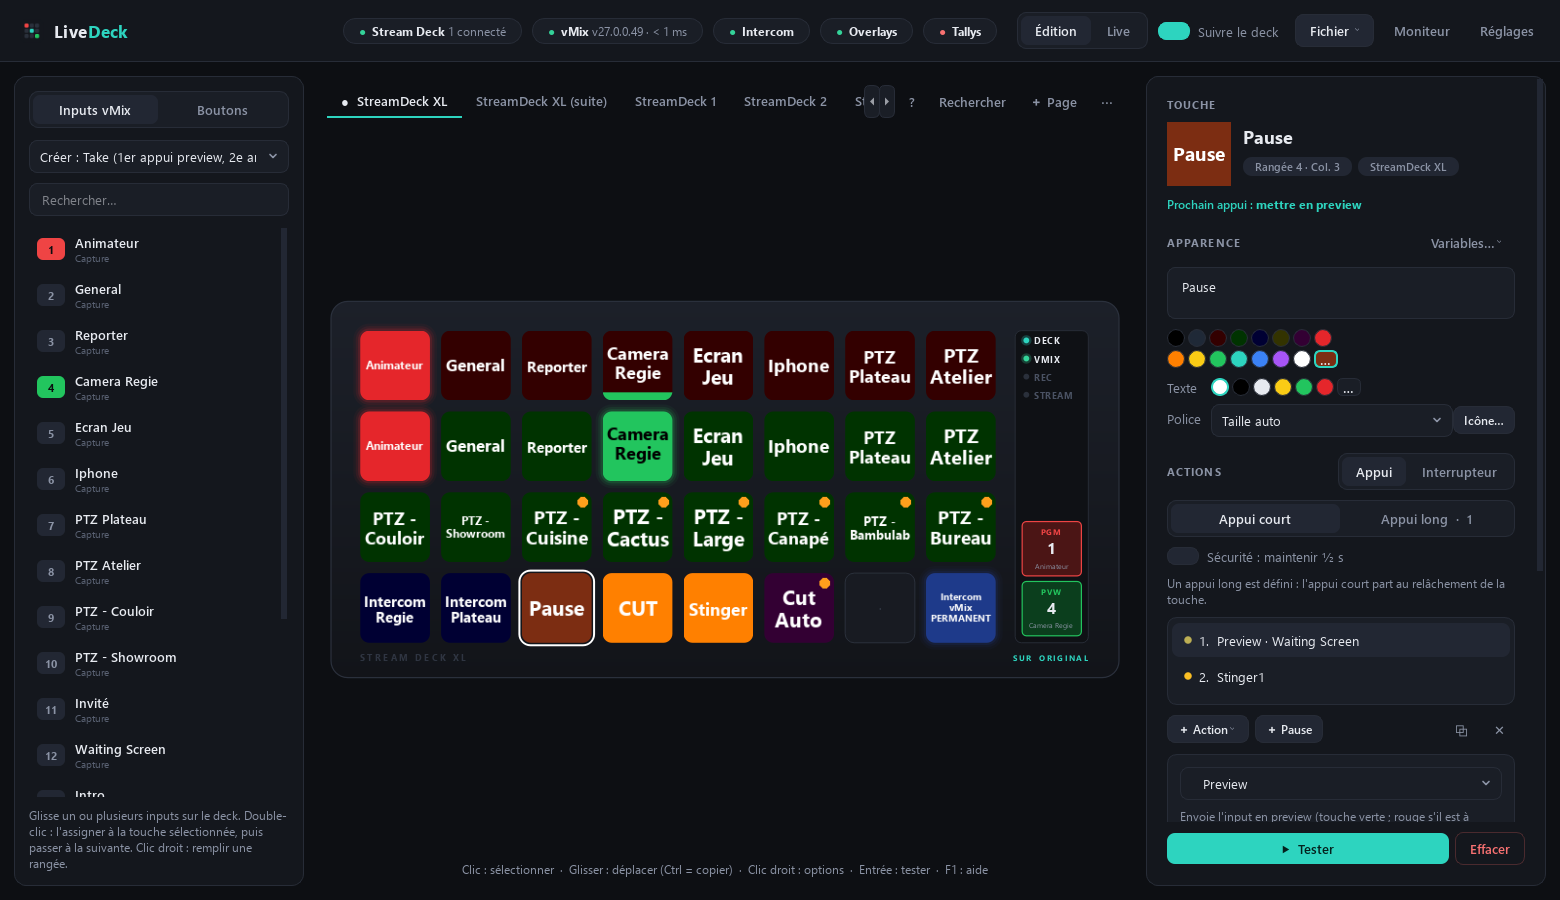
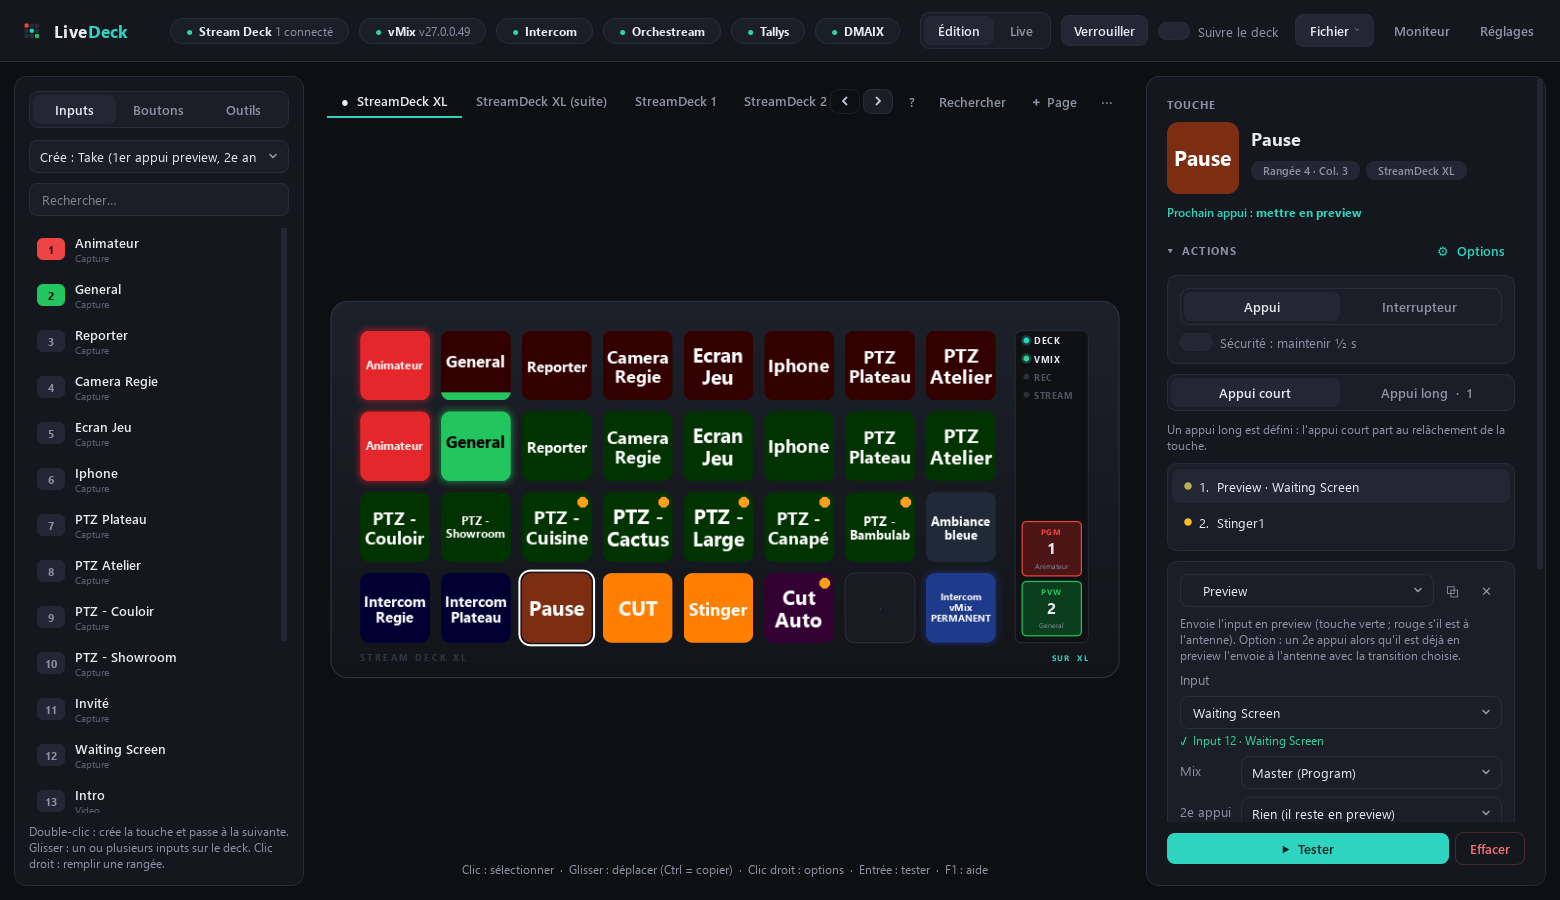
Captures d'écran de la doc refaites ; outil tools/screenshots.py
Les images dataient de la 1.8.0 : onglet Outils, réglages par outil, pastilles
par outil et actions PTZ n'y étaient pas. tools/screenshots.py les redessine
hors écran avec la configuration de démonstration et de faux serveurs ;
nouvelle capture outils.png (guide et README).

diff --git a/tools/screenshots.py b/tools/screenshots.py
@@ -1,0 +1,215 @@
+"""Refait les captures d'écran de la documentation (docs/images), sans rien de réel.
+
+    python tools/screenshots.py            # écrit dans docs/images
+    python tools/screenshots.py dossier    # écrit ailleurs (pour comparer avant de remplacer)
+
+Tout est simulé sur 127.0.0.1, comme dans les tests : faux vMix, faux Stream Deck XL, faux py-intercom,
+orchestream, py-multiview, MixPanel, DMAIX, Tally32 et caméra ONVIF. La configuration est celle de démonstration
+(tests/fixtures/demo.companionconfig), écrite dans un dossier temporaire : ni ta configuration, ni le registre,
+ni le clavier ne sont touchés. L'interface est dessinée hors écran, à taille fixe.
+"""
+from __future__ import annotations
+
+import os
+import sys
+import tempfile
+import time
+from pathlib import Path
+
+os.environ["QT_QPA_PLATFORM"] = "offscreen"
+_fonts = Path(os.environ.get("WINDIR", r"C:\Windows")) / "Fonts"
+if _fonts.is_dir():
+    os.environ.setdefault("QT_QPA_FONTDIR", str(_fonts))
+ROOT = Path(__file__).resolve().parent.parent
+sys.path[:0] = [str(ROOT), str(ROOT / "tests")]
+
+from PySide6.QtWidgets import QApplication  # noqa: E402
+
+app = QApplication.instance() or QApplication([])
+
+import fakes  # noqa: E402
+from livedeck import autostart  # noqa: E402
+
+autostart.is_enabled = lambda: False  # jamais le registre Windows
+autostart.set_enabled = lambda on: None
+KEYS = fakes.FakeKeys().install()  # jamais une vraie touche du clavier
+
+from livedeck import winsys  # noqa: E402
+from livedeck.actions import new_action  # noqa: E402
+from livedeck.companion_import import import_companion  # noqa: E402
+from livedeck.deck import DeckHandle, DeckManager  # noqa: E402
+from livedeck.engine import Engine  # noqa: E402
+from livedeck.model import new_button  # noqa: E402
+from livedeck.ui import theme  # noqa: E402
+from livedeck.ui.diagnostic import DiagnosticDialog  # noqa: E402
+from livedeck.ui.main_window import MainWindow  # noqa: E402
+from livedeck.ui.search import SearchDialog  # noqa: E402
+from livedeck.ui.settings import SettingsDialog  # noqa: E402
+
+FIXTURE = ROOT / "tests" / "fixtures" / "demo.companionconfig"
+PORT = 18700  # faux serveurs : PORT (vMix), puis un port chacun
+SIZE = (1560, 900)
+
+
+class MockDeck:
+    """Ce que LiveDeck demande à un Stream Deck (bibliothèque python-elgato-streamdeck)."""
+
+    def __init__(self):
+        self.images = {}
+
+    def __enter__(self):
+        return self
+
+    def __exit__(self, *a):
+        pass
+
+    def key_image_format(self):
+        return {"size": (96, 96), "format": "JPEG", "flip": (True, True), "rotation": 0}
+
+    def set_key_image(self, i, data):
+        self.images[i] = data
+
+    def set_brightness(self, b):
+        pass
+
+    def id(self):
+        return "mock-xl"
+
+    def connected(self):
+        return True
+
+
+def pump(seconds: float) -> None:
+    end = time.monotonic() + seconds
+    while time.monotonic() < end:
+        app.processEvents()
+        time.sleep(0.01)
+
+
+def wait(cond, timeout: float = 6.0) -> bool:
+    end = time.monotonic() + timeout
+    while time.monotonic() < end:
+        app.processEvents()
+        if cond():
+            return True
+        time.sleep(0.01)
+    return False
+
+
+def build(tmp: Path):
+    """Moteur de démonstration branché sur les faux serveurs, avec un faux Stream Deck XL."""
+    fakes.serve_vmix(PORT)
+    fakes.FakeIntercom(PORT + 1)
+    fakes.FakeOrchDeck(PORT + 2)
+    fakes.FakeTally(PORT + 3, True)
+    fakes.FakeTally(PORT + 4, True)
+    fakes.FakeMultiview(PORT + 5)
+    fakes.FakeMixPanel(PORT + 6)
+    fakes.FakeDmaix(PORT + 7)
+    cam = fakes.FakeOnvif(PORT + 8)
+    cfg, _ = import_companion(FIXTURE, integrations=True)
+    cfg["vmix"] = {"host": "127.0.0.1", "port": PORT}
+    cfg["integrations"] = {
+        "intercom": {"host": "127.0.0.1", "port": PORT + 1},
+        "orchestream": {"url": f"127.0.0.1:{PORT + 2}", "token": fakes.FakeOrchDeck.TOKEN},
+        "tallies": [{"name": "Caméra 1", "host": f"127.0.0.1:{PORT + 3}"},
+                    {"name": "Caméra 2", "host": f"127.0.0.1:{PORT + 4}"}],
+        "multiview": {"url": f"127.0.0.1:{PORT + 5}"}, "mixpanel": {"url": f"127.0.0.1:{PORT + 6}"},
+        "dmaix": {"url": f"127.0.0.1:{PORT + 7}"},
+        "onvif": {"user": cam.USER, "password": cam.PASSWORD,
+                  "cameras": [{"name": "Plateau", "host": f"127.0.0.1:{PORT + 8}"}]}}
+    xl = next(p for p in cfg["pages"] if (p["cols"], p["rows"]) == (8, 4))
+    # Une touche décrite par un outil (DMAIX) à la place de la dernière de la 3e rangée…
+    free = [f"{r},{c}" for r in range(4) for c in range(8) if f"{r},{c}" not in xl["buttons"]]
+    xl["buttons"]["2,7"] = new_button(label="", bg="#1f2937", actions=[
+        new_action("deck.key", app="dmaix", key="scene.play:sc-2", title="Ambiance bleue")])
+    # … et une touche à deux gestes : appui court (preview puis stinger), appui long (fondu au noir)
+    xl["buttons"][free[0]] = new_button(label="Pause", bg="#7c2d12", actions=[
+        new_action("vmix.preview", input="Waiting Screen"), new_action("vmix.transition", effect="Stinger1")],
+        long_actions=[new_action("vmix.production", what="fadetoblack")])
+    e = Engine(tmp / "config.json", enable_decks=False)
+    e.winaudio = winsys.CachedAudio(fakes.FakeAudio())  # jamais le vrai son de la machine
+    e.cfg = cfg
+    dm = DeckManager(e)
+    e.decks = dm
+    deck = MockDeck()
+    h = DeckHandle(deck, "DEMOXL0000001", "Stream Deck XL", 4, 8, 96)
+    dm.handles[deck.id()] = h
+    h.page_id = xl["id"]
+    return e, xl, free[1:]
+
+
+def main() -> None:
+    out = Path(sys.argv[1]) if len(sys.argv) > 1 else ROOT / "docs" / "images"
+    out.mkdir(parents=True, exist_ok=True)
+    app.setStyleSheet(theme.QSS)
+    with tempfile.TemporaryDirectory() as d:
+        e, xl, free = build(Path(d))
+        w = MainWindow(e)
+        e.start()
+        w.resize(*SIZE)
+        w.show()
+        ok = wait(lambda: e.vmix.state.connected and e.vmix.state.inputs and e.intercom.reachable
+                  and e.deck("dmaix").has_keys and e.orchestream.has_keys)
+        if not ok:
+            sys.exit("Les faux serveurs n'ont pas répondu : captures annulées.")
+        pump(1.5)
+
+        def shot(name: str, widget=None) -> None:
+            pump(0.6)
+            (widget or w).grab().save(str(out / name))
+            print("écrit", out / name)
+
+        def first(pred):
+            return next(k for k, b in sorted(xl["buttons"].items()) if pred(b))
+
+        # 1. la surface : une touche Program sélectionnée, les inputs vMix à gauche
+        w.select(first(lambda b: (b.get("actions") or [{}])[0].get("type") == "vmix.program"
+                       and "Regie" in b.get("label", "")))
+        shot("surface.png")
+        # 2. les étapes d'une touche : appui court + appui long
+        w.select(first(lambda b: b.get("long_actions")))
+        shot("etapes.png")
+        # 3. une touche vide : tout ce qu'elle peut devenir, une pastille par outil
+        w.select(free[0])
+        shot("touche-vide.png")
+        # 4. l'onglet Outils : chaque outil, son état, ses touches par rubrique
+        w.library.show_tools()
+        w.select(first(lambda b: (b.get("actions") or [{}])[0].get("type") == "deck.key"))
+        shot("outils.png")
+        w.library.tabs.set("inputs")
+        w.library.stack.setCurrentWidget(w.library.inputs)
+
+        # 5. Réglages → Intégrations : un outil par page
+        dlg = SettingsDialog(e, w, tab="integ", tool="orchestream")
+        dlg.show()
+        wait(lambda: e.deck("mixpanel").has_keys and e.deck("multiview").has_keys
+             and all(c.reachable for c in e.onvif.cameras) and e.tallies.summary("all")[0], 8)
+        pump(1.2)
+        shot("integrations.png", dlg)
+        dlg.reject()
+
+        # 6. la recherche (Ctrl+F)
+        dlg = SearchDialog(e, w)
+        dlg.show()
+        dlg.edit.setText("plateau")
+        shot("recherche.png", dlg)
+        dlg.reject()
+
+        # 7. le diagnostic : quelques touches reconnues
+        dlg = DiagnosticDialog(e, w)
+        dlg.show()
+        dlg.tabs.set("in")
+        dlg.stack.setCurrentIndex(1)
+        for idx in (0, 1, 2, 8, 10, 11, 19, 20, 27):
+            dlg.key_event.emit("DEMOXL0000001", idx, True)
+            dlg.key_event.emit("DEMOXL0000001", idx, False)
+        shot("diagnostic.png", dlg)
+        dlg.reject()
+        e.stop()
+    sys.stdout.flush()
+    os._exit(0)  # fin nette : décharger Qt avec des fils natifs encore actifs plante parfois sous Windows
+
+
+if __name__ == "__main__":
+    main()

diff --git a/README.md b/README.md
@@ -57,11 +57,15 @@ Mieux encore : **glisse plusieurs inputs sur le deck** et toute une rangée est 
 <table>
 <tr>
 <td width="50%"><img src="docs/images/etapes.png" alt="Étapes"><p align="center"><sub>Étapes d'une touche, prochain appui</sub></p></td>
-<td width="50%"><img src="docs/images/integrations.png" alt="Intégrations"><p align="center"><sub>Intégrations py-intercom, orchestream, Tally32</sub></p></td>
+<td width="50%"><img src="docs/images/integrations.png" alt="Intégrations"><p align="center"><sub>Réglages : une page par outil, avec son état</sub></p></td>
 </tr>
 <tr>
 <td width="50%"><img src="docs/images/diagnostic.png" alt="Diagnostic"><p align="center"><sub>Diagnostic des Stream Decks</sub></p></td>
 <td width="50%"><img src="docs/images/touche-vide.png" alt="Touche vide"><p align="center"><sub>Toutes les actions, avec recherche</sub></p></td>
+</tr>
+<tr>
+<td width="50%"><img src="docs/images/outils.png" alt="Outils"><p align="center"><sub>Onglet Outils : chaque outil, son état, ses touches</sub></p></td>
+<td width="50%"><img src="docs/images/recherche.png" alt="Recherche"><p align="center"><sub>Recherche d'une touche (Ctrl+F)</sub></p></td>
 </tr>
 </table>
 

diff --git a/docs/release.md b/docs/release.md
@@ -78,3 +78,13 @@ que tu la lances en exe ou depuis les sources. Rien n'est écrit dans le dépôt
 (`*.companionconfig`) sont exclus par `.gitignore` : ta config de régie reste sur ton PC.
 Les tests utilisent une config de démonstration anonymisée (`tests/fixtures/demo.companionconfig`) et des serveurs
 simulés (vMix, py-intercom, orchestream, Tally32) sur `127.0.0.1`.
+
+## Refaire les captures d'écran de la doc
+
+```bash
+python tools/screenshots.py
+```
+
+Le script redessine les images de `docs/images` hors écran, avec la configuration de démonstration et de faux
+serveurs (vMix, Stream Deck XL, py-intercom, orchestream, py-multiview, MixPanel, DMAIX, Tally32, caméra ONVIF) :
+rien de réel n'est touché. À relancer quand l'interface change, avant de publier.

diff --git a/docs/guide.md b/docs/guide.md
@@ -280,6 +280,8 @@ elles sont toutes surveillées.
 
 ![Intégrations](images/integrations.png)
 
+![Outils](images/outils.png)
+
 | Outil | Ce que fait LiveDeck | Retour sur la touche |
 |---|---|---|
 | **py-intercom** (API Stream Deck du client, `http://127.0.0.1:5080`, jeton facultatif) | Talkback maintenu (`on` à l'appui, `off` au relâché), basculer, ouvrir, fermer, couper tous les bus ; ou les touches que py-intercom décrit (une par bus, *Tout couper*, état de la liaison) | Bleu micro ouvert ; HORS LIGNE, DÉSARMÉ, BUS ABSENT ou PERMANENT sinon ; pour les touches décrites : texte, couleur et état donnés par py-intercom, en direct |
